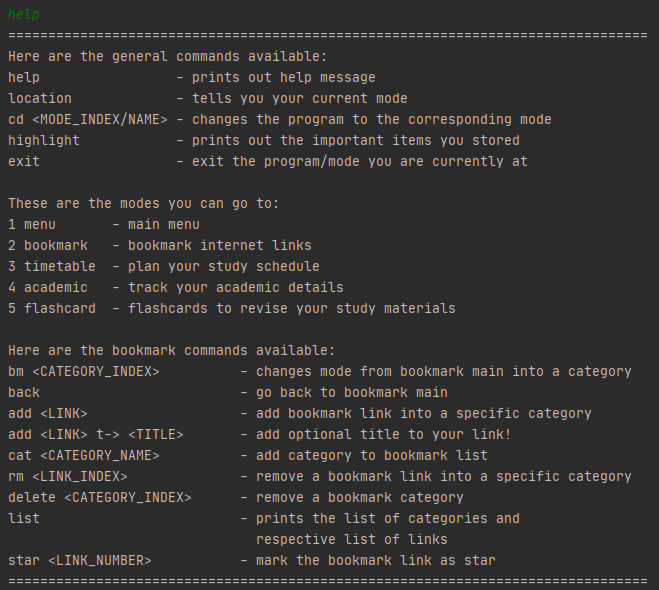
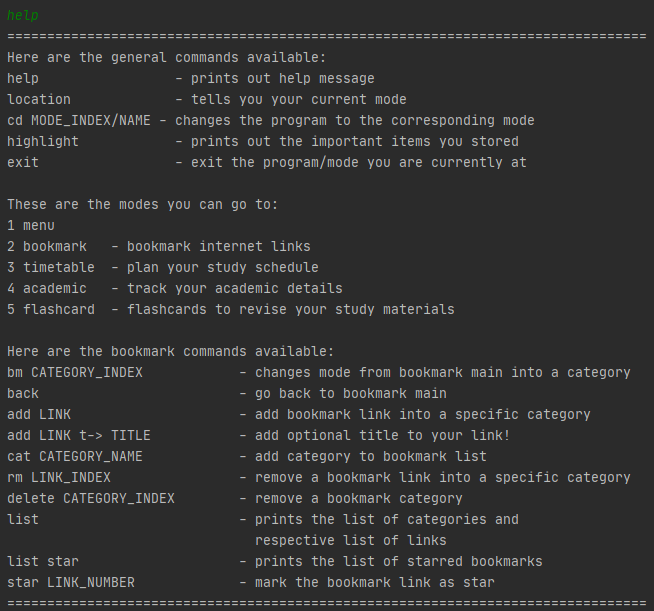
Update help message photos

Changed region(s): [[0.0, 0.0, 1.0, 1.0]]

diff --git a/docs/UserGuide.md b/docs/UserGuide.md
@@ -28,9 +28,9 @@ By utilizing these features, you will be able to manage your study matters effic
 
 The following is a list of common notations and symbols you’ll encounter throughout the user guide:
 
-1. INDEX NUMBER
+1. INDEX_NUMBER
    
-    Words of phrases in full capital indicates that they are inputs that you can define
+    Words of phrases in full capital indicates that they are inputs that you can decide on
    
 1. `command`
 
